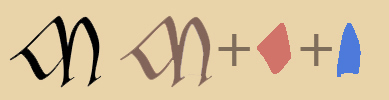
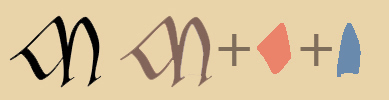
Take account of altered colors

Changed region(s): [[0.6478, 0.24, 0.7712, 0.75], [0.8638, 0.24, 0.9254, 0.78]]

diff --git a/howitworks.html b/howitworks.html
@@ -211,7 +211,7 @@ ul li:nth-child(5){
       some is the result of scribal habit or whim.
     </p>
     <p>
-      A computer, of course, is a machine, and it is incapable of whimsy, so
+      A computer, of course, <i>is</i> a machine, and it is incapable of whimsy, so
       reproducing the variability of handwriting is difficult, to say the least.
       But a computer can give the <i>impression</i> of variability. It can
       employ pseudo-random algorithms, for example, to vary letterforms (my
@@ -267,21 +267,25 @@ ul li:nth-child(5){
       it’s frequently used for titles and running heads in printed books. A
       color font is different from a conventional font in that the colors
       in which text is rendered are chosen by the font designer, not by the
-      font’s user. Further, a single glyph in a color font can
+      font’s user. Further, while a glyph in a conventional font must be either
+      one color or another, a glyph in a color font can
       have any number of colors and combine them in any number of ways.
-      Cerne has five colors:
+      The Cerne font has five colors:
     </p>
     <div class="imgbox">
-      <img class="center-fit-tiny" src="./images/Cerne-colors.jpg"/>
+      <img class="center-fit-tiny" src="./images/Cerne-colors.jpg"
+      alt="Colors of the Cerne font"/>
     </div>
     <p>
       These are based on colors found in the Book of Cerne, but to compensate
-      for the degradation of the colors over the centuries, and the
+      for some fading over the centuries, and the
       darkening of the parchment, the last four of them,
-      used for decoration, have been adjusted with reference to
-      pigments likely to have been used in the ninth century: cinnabar, yellow
-      ochre, verdigris, and azurite. The saturation of these colors has
-      been reduced so as to increase contrast with the text color.
+      used for decoration, have been adjusted with reference to the likely
+      pigments used at the time: red lead, orpiment,
+      verdigris, and woad (see Michelle P. Brown, <i>The Book of Cerne</i>
+      (London and Toronto, 1996), pp. 70–73). The saturation of these colors has
+      been reduced, and sometimes the brightness increased,
+      so as to increase contrast with the text color.
     </p>
     <p>
       Inside the font, each character consists of at least two <b>layers</b>, and
@@ -302,13 +306,13 @@ ul li:nth-child(5){
       color, and it is ignored by applications that recognize color fonts.
     </p>
     <p>
-      The second layer contains everything in the text color—a dark reddish brown.
+      The second layer contains whatever is in the text color—a dark reddish brown.
     </p>
     <p>
-      The third layer contains everything in red.
+      The third layer contains whatever is in red.
     </p>
     <p>
-      The fourth layer contains everything in blue.
+      The fourth layer contains whatever is in blue.
     </p>
     <div class="imgbox">
       <img class="center-fit-small" src="./images/M-layers.jpg"/>
@@ -318,8 +322,8 @@ ul li:nth-child(5){
       one by one, aligning them exactly. If you’re
       thinking that this is an inefficient way of going about things, you
       may be right—but modern font technology is highly optimized with respect
-      to both speed and file size: the web version of Cerne (for which file
-      size is important) is tiny, and if modern displays render a color font
+      to both speed and file size: the web version of Cerne
+      is tiny, and if modern displays render a color font
       more slowly than a conventional one, the difference is not noticeable.
     </p>
     <p>
